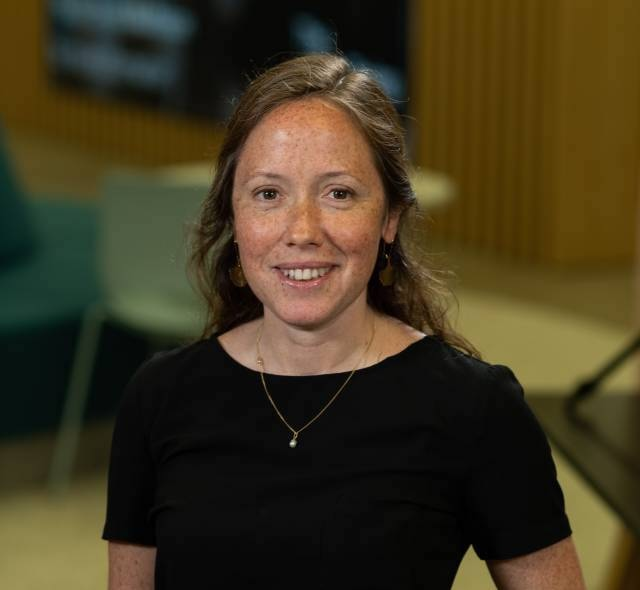
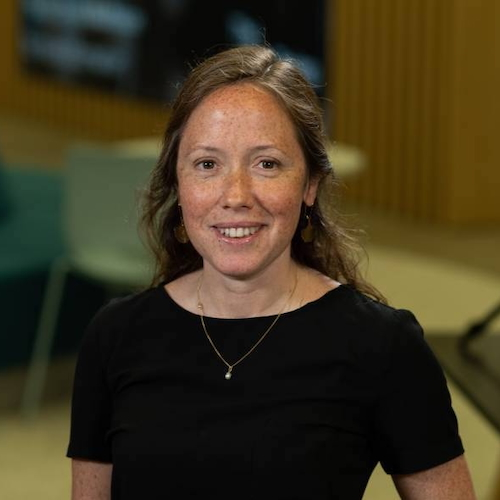
resize photo and fix path

diff --git a/_team/Alexandra-Araujo-Alvarez.md b/_team/Alexandra-Araujo-Alvarez.md
@@ -3,7 +3,7 @@ caption: #Alexandra Araujo Alvarez
   title: Alexandra Araujo Alvarez
   pronouns: she/her
   subtitle: Core team 
-  thumbnail: assets/img/team/Alexandra-Araujo-Alvarez.jpg
+  thumbnail: assets/img/team/alexandra-araujo-alvarez.jpg
 modalID: teamAlexandraAraujoAlvarez
 social:
     - url: https://www.linkedin.com/in/alexandraaaj/
@@ -17,7 +17,7 @@ social:
 title: Alexandra Araujo alvarez
 pronouns: she/her
 subtitle: Core team
-image: assets/img/team/Alex-Araujo-Alvarez.jpg
+image: assets/img/team/alexandra-araujo-alvarez.jpg
 alt: Alexandra Araujo Alvarez
 social:
     - url: https://www.linkedin.com/in/alexandraaaj/
